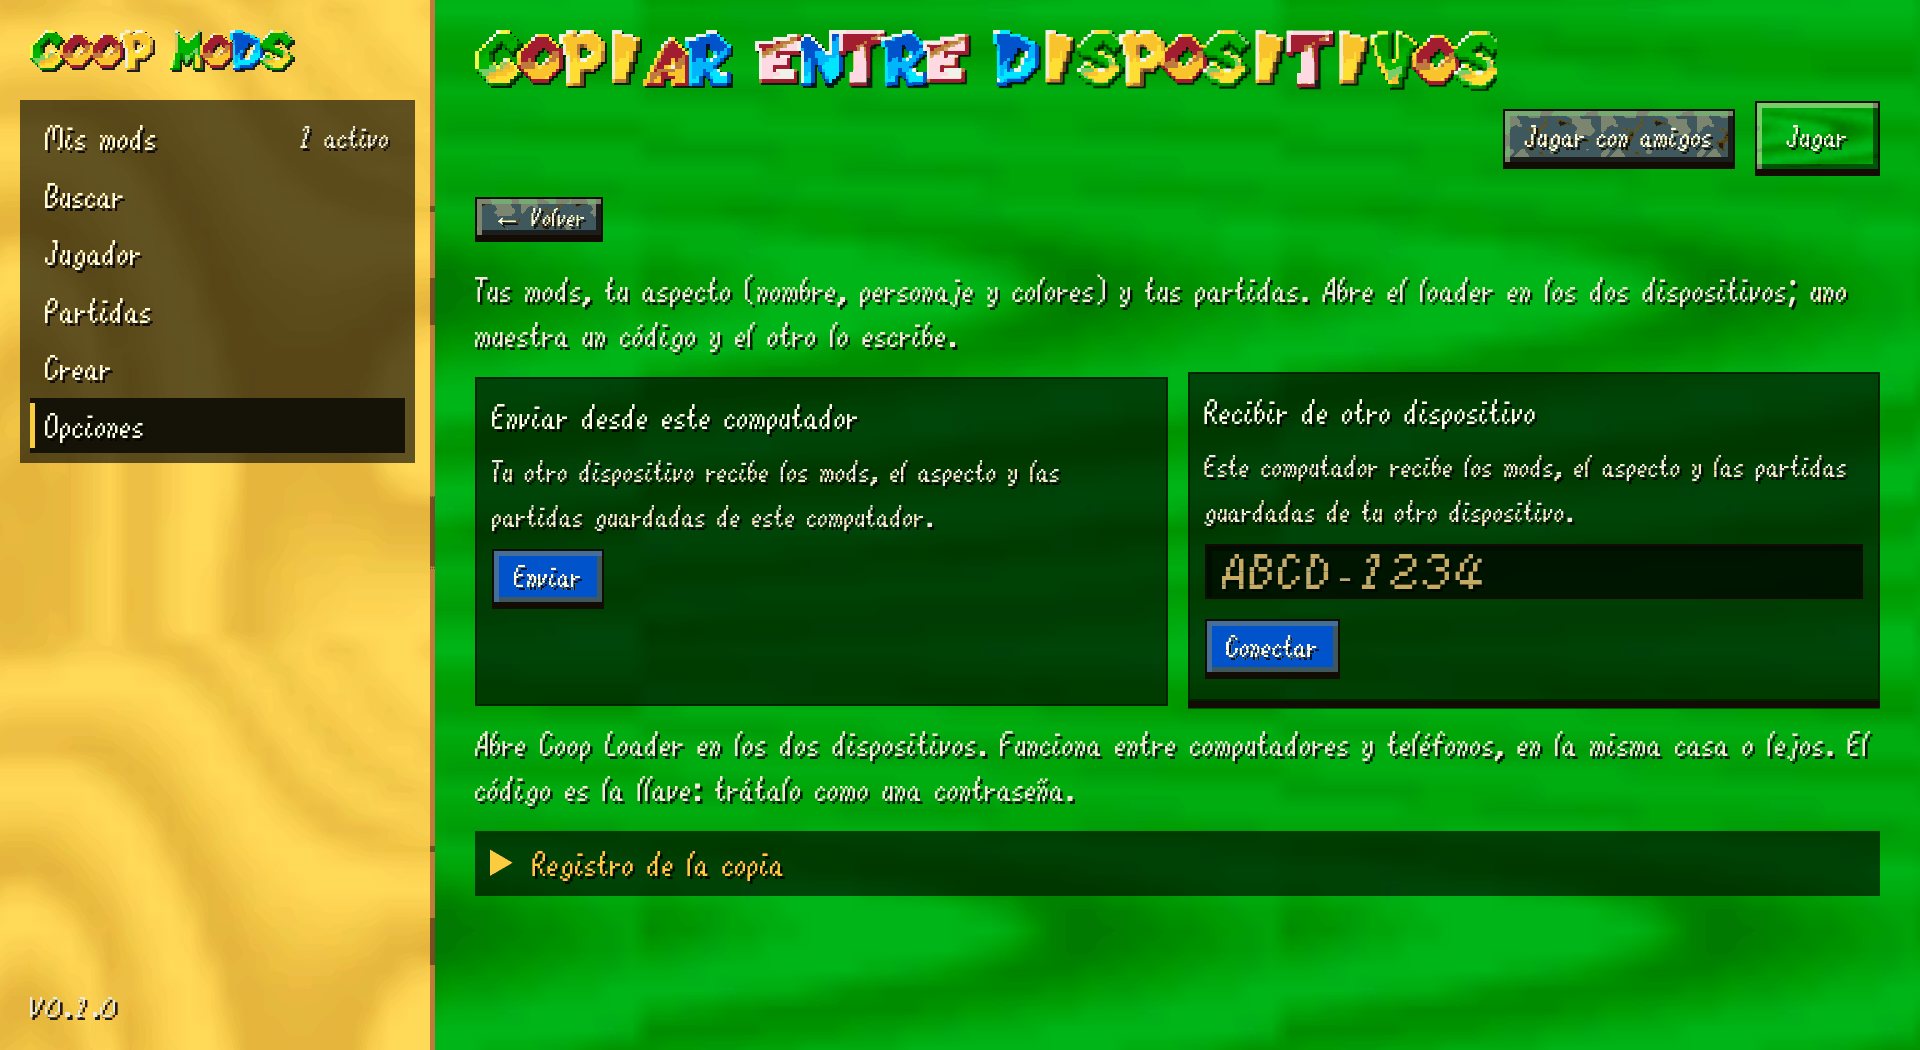
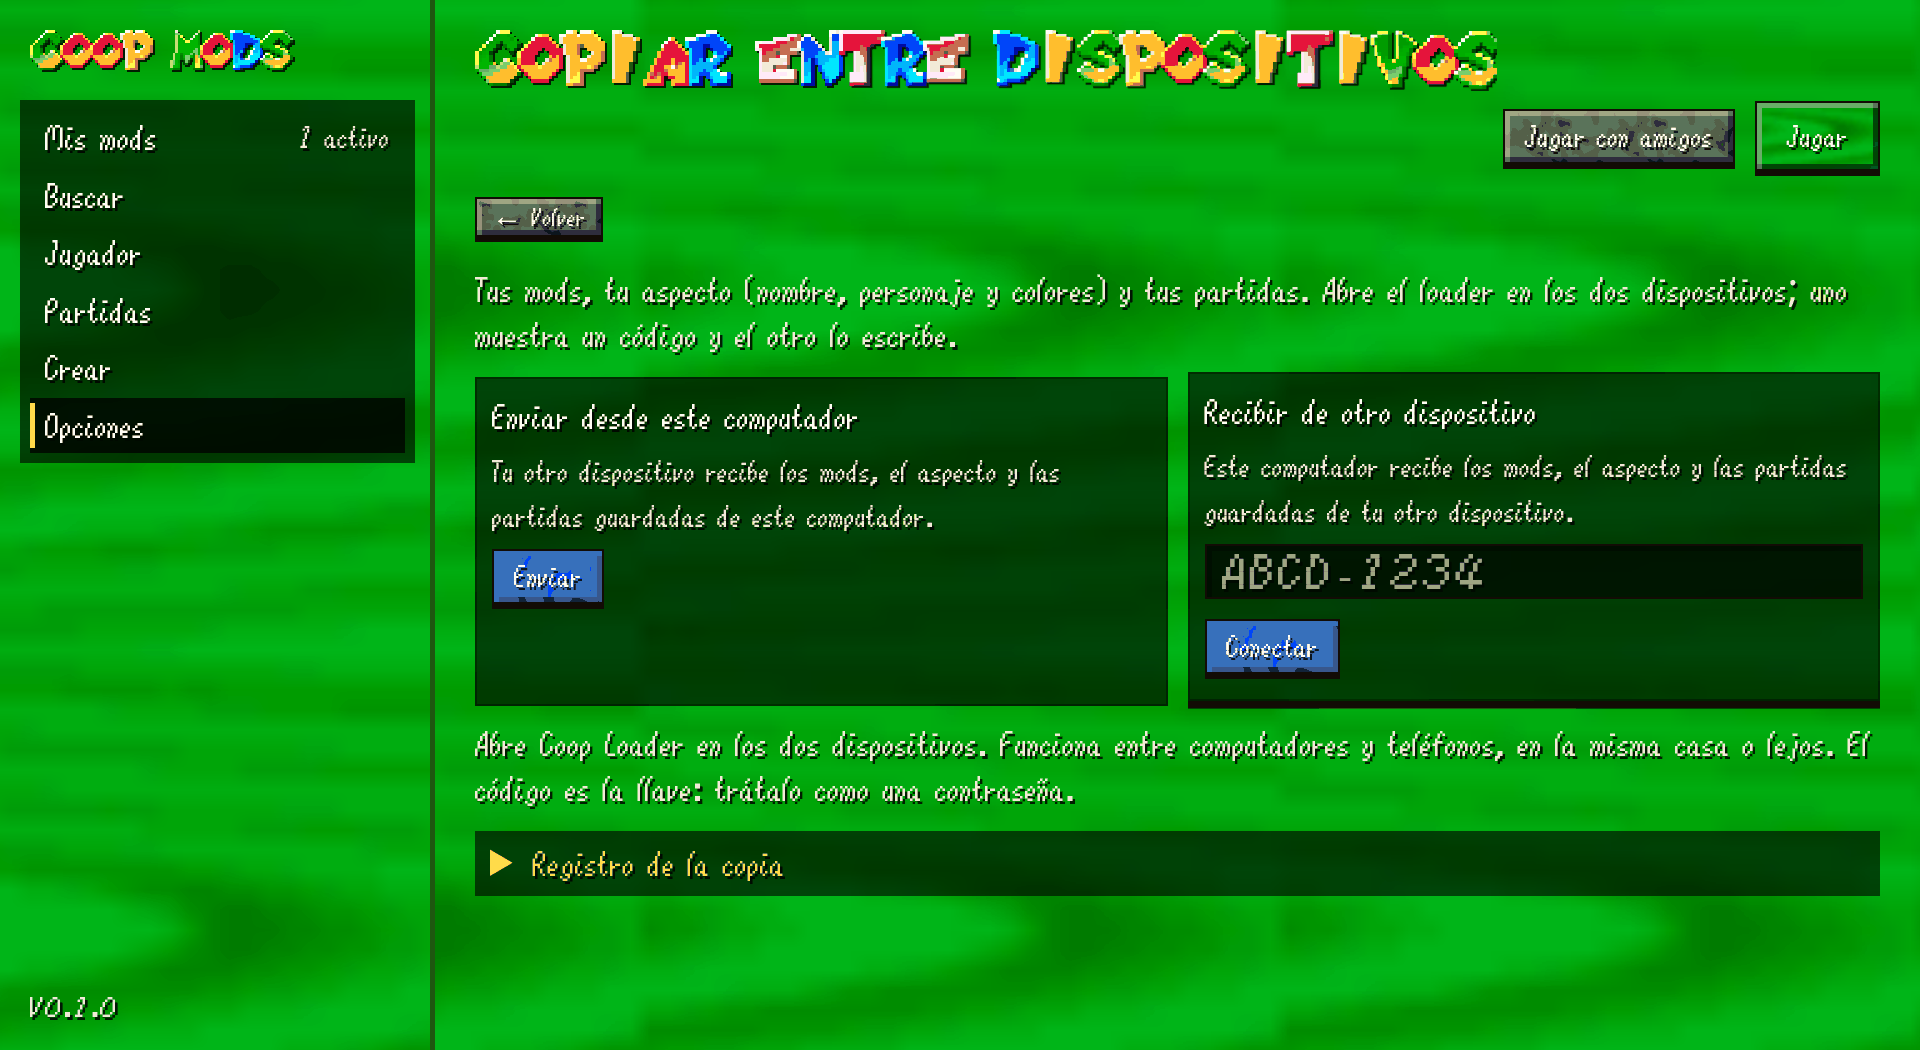
fix(ui): match the sidebar wood with the active screen
The left navigation rail used wood_yellow on every tab, so Browse kept a
yellow rail over the blue screen. It now paints with the active tab's
--tab-wood (yellow, blue, red, pink or green) and updates together with
the page, without the white veil that washed the hue out.

Refresh the previews and document the shared wood in README and
docs/THEME.md.

diff --git a/internal/server/web/style.css b/internal/server/web/style.css
@@ -184,9 +184,7 @@ sm64-text .sm64-fallback {
   padding: var(--space-6) var(--space-4) var(--space-4);
 }
 html.rom .rail {
-  background:
-    linear-gradient(rgba(255, 255, 255, .22), rgba(255, 255, 255, .22)),
-    var(--tex-wood-yellow) -200px 0 / 640px 640px;
+  background: var(--tab-wood) -200px 0 / 640px 640px;
   box-shadow: inset calc(var(--px) * -2) 0 0 rgba(55, 30, 0, .5);
 }
 

diff --git a/docs/THEME.md b/docs/THEME.md
@@ -153,8 +153,10 @@ La textura de madera se escala a 640×640 y se repite. Cada pestaña elige una:
 | Opciones, Copiar | `wood_green` |
 | Jugar con amigos | `wood_blue` |
 
-La barra lateral usa `wood_yellow` con un velo blanco. El cambio se hace con
-`data-view` en `<html>` y la clase `rom`.
+La barra lateral usa **la misma madera que la pestaña activa**, así el menú
+cambia de color junto con la pantalla (azul en Buscar y Jugar, rojo en Jugador,
+rosa en Crear, verde en Opciones y Copiar, amarillo en Mis mods y Partidas). El
+cambio se hace con `data-view` en `<html>` y la clase `rom`.
 
 ### Títulos y logotipo
 

diff --git a/README.md b/README.md
@@ -221,7 +221,8 @@ tu máquina y guarda el resultado en su caché.
 
 - **Fondo de cada pestaña**: las maderas del juego (amarillo en Mis mods,
   Partidas y Perfiles; azul en Buscar; rojo en Jugador; rosa en Crear; verde en
-  Opciones y Copiar).
+  Opciones y Copiar). El **menú lateral usa la misma madera que la pestaña
+  activa**, así cambia de color junto con la pantalla.
 - **Títulos y logotipo**: las letras del HUD, cada una con su color, como
   `MIS MODS` u `OPCIONES`.
 - **Texto**: la fuente de diálogo del juego; las etiquetas usan la fuente de
